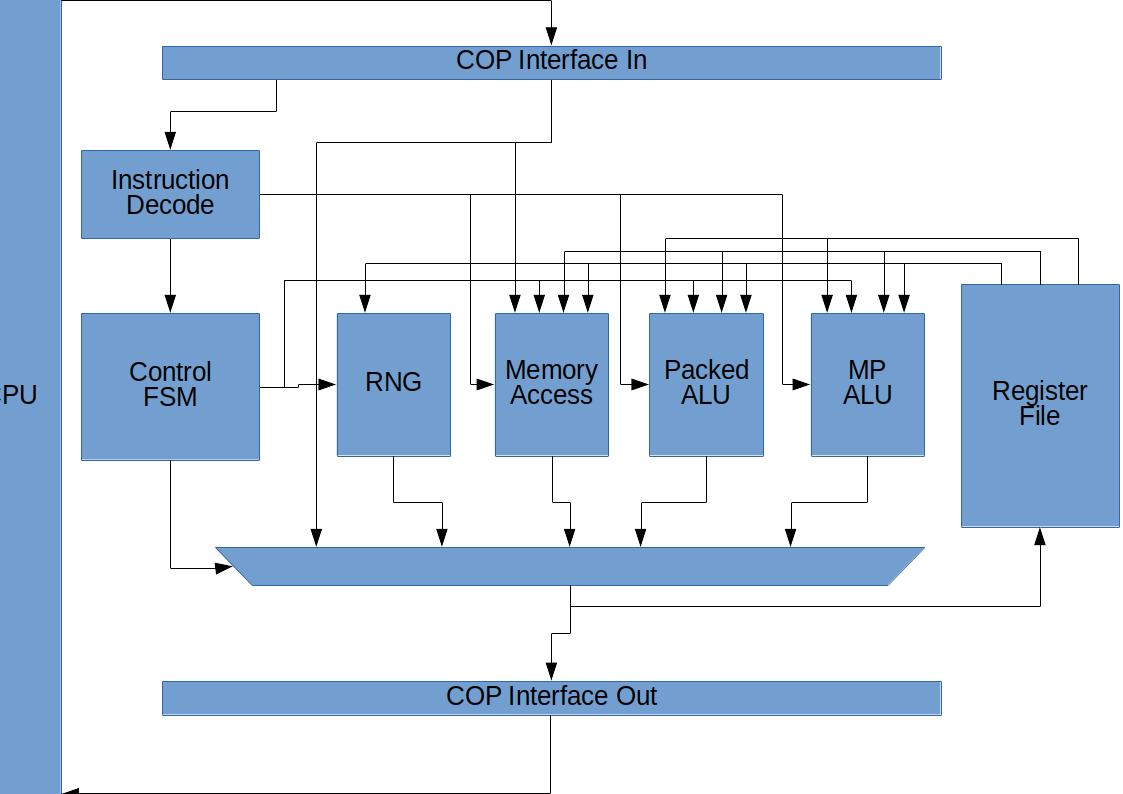
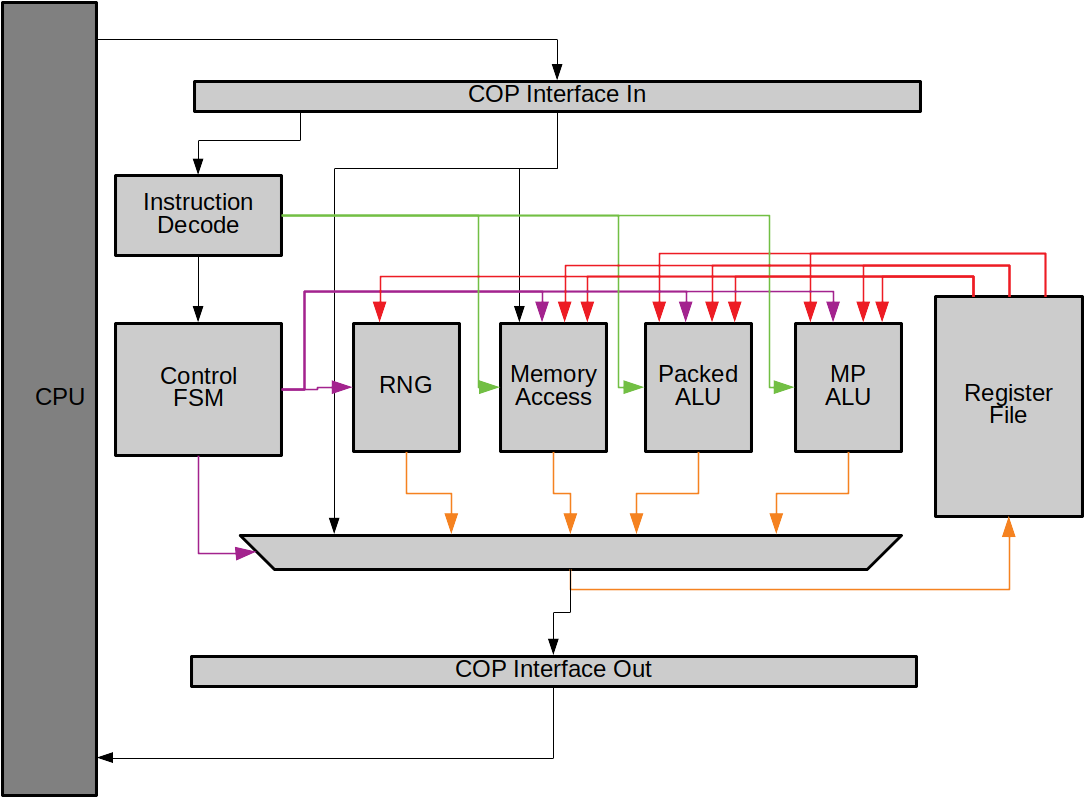
Update block diagram
On branch impl/uarch-spec
 Changes to be committed:
	modified:   README.md
	modified:   docs/diagrams/cop-block-diagram.png

diff --git a/README.md b/README.md
@@ -4,7 +4,7 @@
 This project looks to build a cryptographic accelerator, in a similar style
 to a floating-point co-processor.
 
-![Drawing Board](./docs/drawing-board.png)
+![Drawing Board](./docs/diagram/cop-block-diagram.png)
 
 ## Getting Started
 
